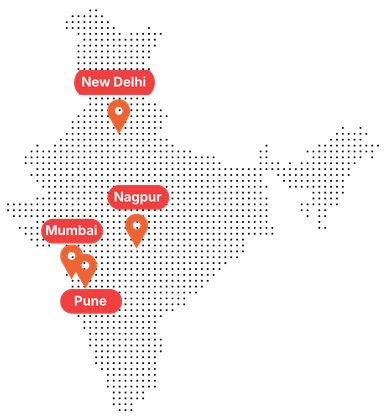
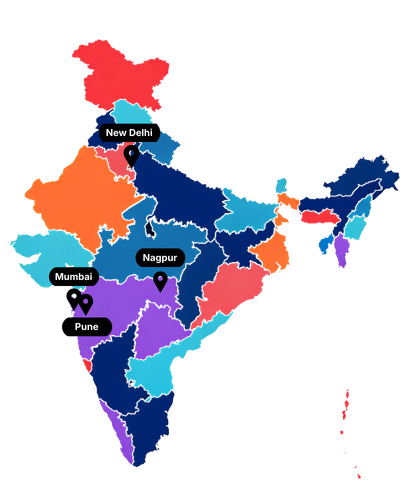
style: enhance FirmsGrid and ValueStrip styles for improved layout and animations

diff --git a/src/components/FirmsGrid/firms-grid.css b/src/components/FirmsGrid/firms-grid.css
@@ -1,16 +1,76 @@
-.firms-grid-section { max-width: 1200px; margin: 48px auto; padding: 0 20px; }
-.firms-header { margin-bottom: 20px; }
-.firms-title { font-size: 1.75rem; color: #0f172a; margin: 0 0 6px 0; }
-.firms-lede { color: #475569; margin: 0 0 18px 0; }
+.firms-grid-section {
+    max-width: 1200px;
+    margin: 48px auto;
+    padding: 0 20px;
+}
 
-.firms-list { list-style: none; padding: 0; margin: 0; display: grid; grid-template-columns: repeat(3, 1fr); gap: 20px; }
+.firms-header {
+    margin-bottom: 20px;
+}
 
-.firm-item { display: flex; gap: 16px; align-items: center; background: rgba(226, 232, 240, 0.82); padding: 14px; border-radius: 8px; border: 1px solid rgba(148, 163, 184, 0.32); box-shadow: 0 8px 20px rgba(51, 65, 85, 0.08); }
+.firms-title {
+    font-size: 1.75rem;
+    color: #0f172a;
+    margin: 0 0 6px 0;
+}
 
-.firm-thumb { width: 72px; height: 72px; flex: 0 0 72px; border-radius: 6px; overflow: hidden; background: rgba(203, 213, 225, 0.72); display: grid; place-items: center; }
-.firm-thumb img { width: 100%; height: 100%; object-fit: contain; display: block; }
-.firm-name p { color: #1e293b; margin: 0; font-weight: 600; }
+.firms-lede {
+    color: #475569;
+    margin: 0 0 18px 0;
+}
+
+.firms-list {
+    list-style: none;
+    padding: 0;
+    margin: 0;
+    display: grid;
+    grid-template-columns: repeat(3, 1fr);
+    gap: 20px;
+}
+
+.firm-item {
+    display: flex;
+    gap: 16px;
+    align-items: center;
+    background: rgba(226, 232, 240, 0.82);
+    padding: 14px;
+    border-radius: 8px;
+    border: 1px solid rgba(148, 163, 184, 0.32);
+    box-shadow: 0 8px 20px rgba(51, 65, 85, 0.08);
+}
+
+.firm-thumb {
+    width: 72px;
+    height: 72px;
+    flex: 0 0 72px;
+    border-radius: 6px;
+    overflow: hidden;
+    display: grid;
+    place-items: center;
+}
+
+.firm-thumb img {
+    width: 100%;
+    height: 100%;
+    object-fit: contain;
+    display: block;
+}
+
+.firm-name p {
+    color: #1e293b;
+    margin: 0;
+    font-weight: 600;
+}
 
 /* responsive */
-@media (max-width: 1024px) { .firms-list { grid-template-columns: repeat(2, 1fr); } }
-@media (max-width: 640px) { .firms-list { grid-template-columns: 1fr; } }
+@media (max-width: 1024px) {
+    .firms-list {
+        grid-template-columns: repeat(2, 1fr);
+    }
+}
+
+@media (max-width: 640px) {
+    .firms-list {
+        grid-template-columns: 1fr;
+    }
+}

diff --git a/src/pages/Home/ValueStrip/value-strip.css b/src/pages/Home/ValueStrip/value-strip.css
@@ -6,18 +6,23 @@
 .value-strip-boundary {
   max-width: 100%;
   margin: 0 auto;
-  padding: 0 2vw;
+  padding: 0.5vw 2vw 0.5vw 4vw;
+  position: relative;
   display: grid;
-  grid-template-columns: 4vw 1fr;
-  gap: 16px;
+  grid-template-columns: 1fr;
+  overflow: hidden;
   align-items: center;
 }
 
 .value-strip-visual {
-  width: 180px;
-  position: relative;
-  left: -50%;
-  justify-self: start;
+  width: 10vw;
+  position: absolute;
+  top: 50%;
+  right: 100px;
+  transform: translateY(-50%);
+  z-index: 2;
+  pointer-events: none;
+  animation: value-strip-roller-rtl 2s linear 0.1s both;
 }
 
 .value-strip-visual svg {
@@ -30,6 +35,10 @@
   display: grid;
   grid-template-columns: repeat(8, minmax(0, 1fr));
   gap: 8px;
+  position: relative;
+  z-index: 1;
+  clip-path: inset(0 0 0 100%);
+  animation: value-strip-reveal-rtl 2s linear 0.1s both;
 }
 
 .value-item {
@@ -79,6 +88,44 @@
   height: auto;
   display: block;
   transform: rotate(90deg);
+}
+
+@keyframes value-strip-reveal-rtl {
+  from {
+    clip-path: inset(0 0 0 100%);
+  }
+
+  to {
+    clip-path: inset(0 0 0 0);
+  }
+}
+
+@keyframes value-strip-roller-rtl {
+  from {
+    right: -100px;
+    transform: translateY(-50%);
+  }
+
+  to {
+    right: calc(92%);
+    transform: translateY(-50%);
+  }
+}
+
+@media (prefers-reduced-motion: reduce) {
+
+  .value-strip-items,
+  .value-strip-visual {
+    animation: none;
+  }
+
+  .value-strip-items {
+    clip-path: inset(0 0 0 0);
+  }
+
+  .value-strip-visual {
+    transform: translateY(-50%);
+  }
 }
 
 @media (max-width: 1280px) {
